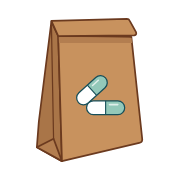
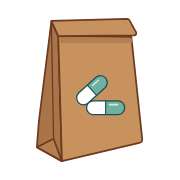
Darken the pill green so the w stands out
Claude-Session: https://claude.ai/code/session_01U63ikha6X1SnPwVRLGhNyE

Changed region(s): [[0.5833, 0.5556, 0.6944, 0.6389], [0.5, 0.4167, 0.6111, 0.5278]]

diff --git a/tools/logo/logo.html b/tools/logo/logo.html
@@ -11,7 +11,7 @@
   and saves PNGs: ?mode=logo (bag with the name) and ?mode=icon (bag with
   two pills, no text).
   Colors: kraft #C8925E, side #A97548, shade #B37E50, outline #6B3A1F,
-  name and pill outline #164F5A, pill mint #93C8B9.
+  name and pill outline #164F5A, pill mint #6FB09F.
 -->
 <style>
   html, body { margin: 0; background: transparent; }
@@ -80,7 +80,7 @@
     el("rect", { x: 0, y: -r, width: length, height: width, rx: r }, clip);
     var inside = el("g", { "clip-path": "url(#" + id + ")" }, g);
     el("rect", { x: 0, y: -r, width: length / 2, height: width, fill: "#FFFFFF" }, inside);
-    el("rect", { x: length / 2, y: -r, width: length / 2, height: width, fill: "#93C8B9" }, inside);
+    el("rect", { x: length / 2, y: -r, width: length / 2, height: width, fill: "#6FB09F" }, inside);
     el("path", {
       d: "M" + (length * 0.6) + " " + (-r * 0.45) + " L" + (length - r * 1.0) + " " + (-r * 0.45),
       stroke: "#FFFFFF", "stroke-width": width * 0.11, "stroke-linecap": "round", opacity: 0.7
